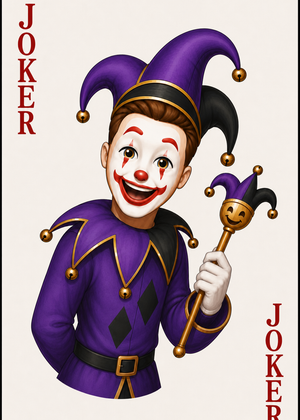
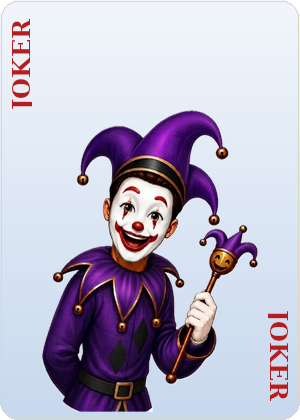
Replace joker card image with new character on matching card background (#327)
Composited IMG_6850.png (transparent-bg joker character) onto a card
background that matches the parchment→cream-2 gradient of regular cards,
with red JOKER text on both corners. Removed background:none from
.card.joker so the CSS card shadow and gradient always show.

https://claude.ai/code/session_01Y6Rs6bbE5AbZ5v7aFoSQuQ

diff --git a/public/styles.css b/public/styles.css
@@ -1393,9 +1393,8 @@ label{display:block;font-size:12.5px;font-weight:600;color:var(--ink-soft);lette
 }
 .card.red{color:var(--suit-red)}
 
-/* Joker card — image fills the card face; div provides shadow + clip */
+/* Joker card — character image overlaid on standard card background */
 .card.joker{
-  background:none;
   overflow:hidden;
 }
 .joker-img{
